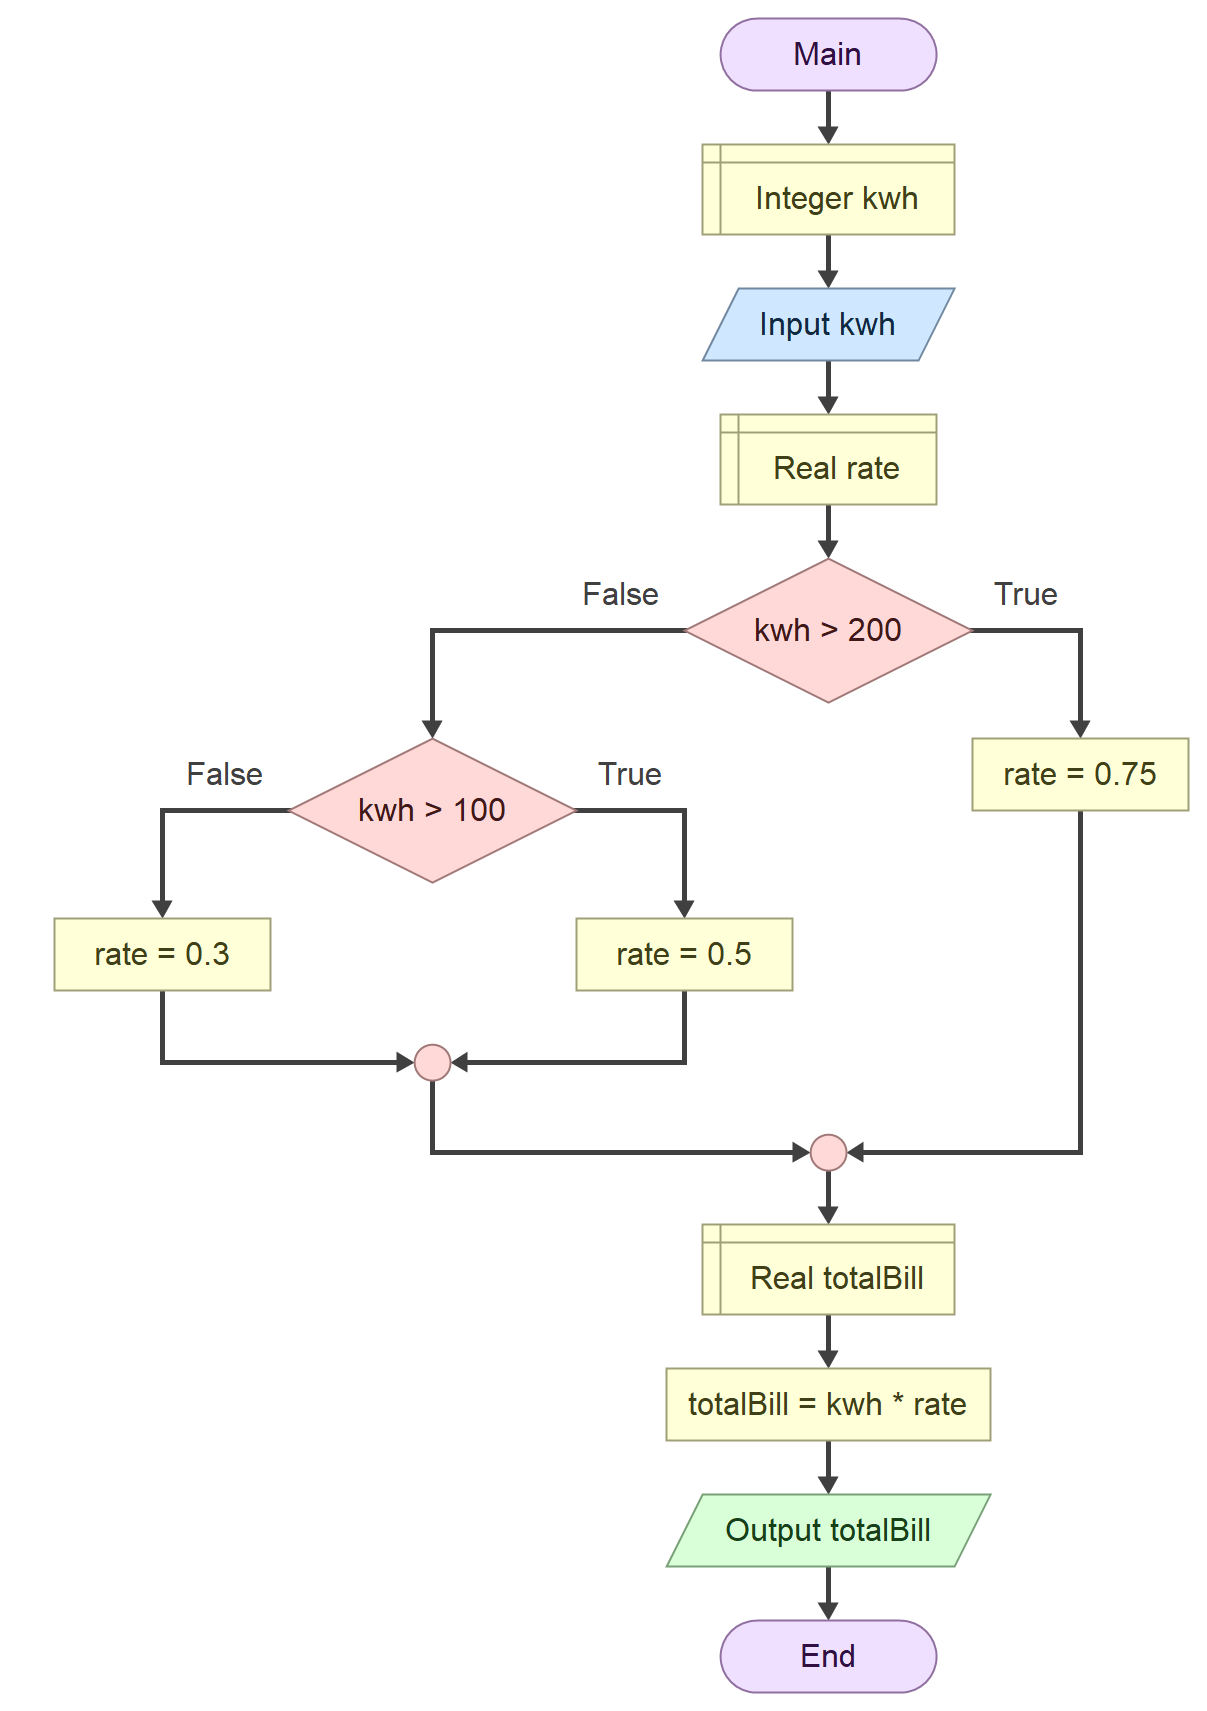
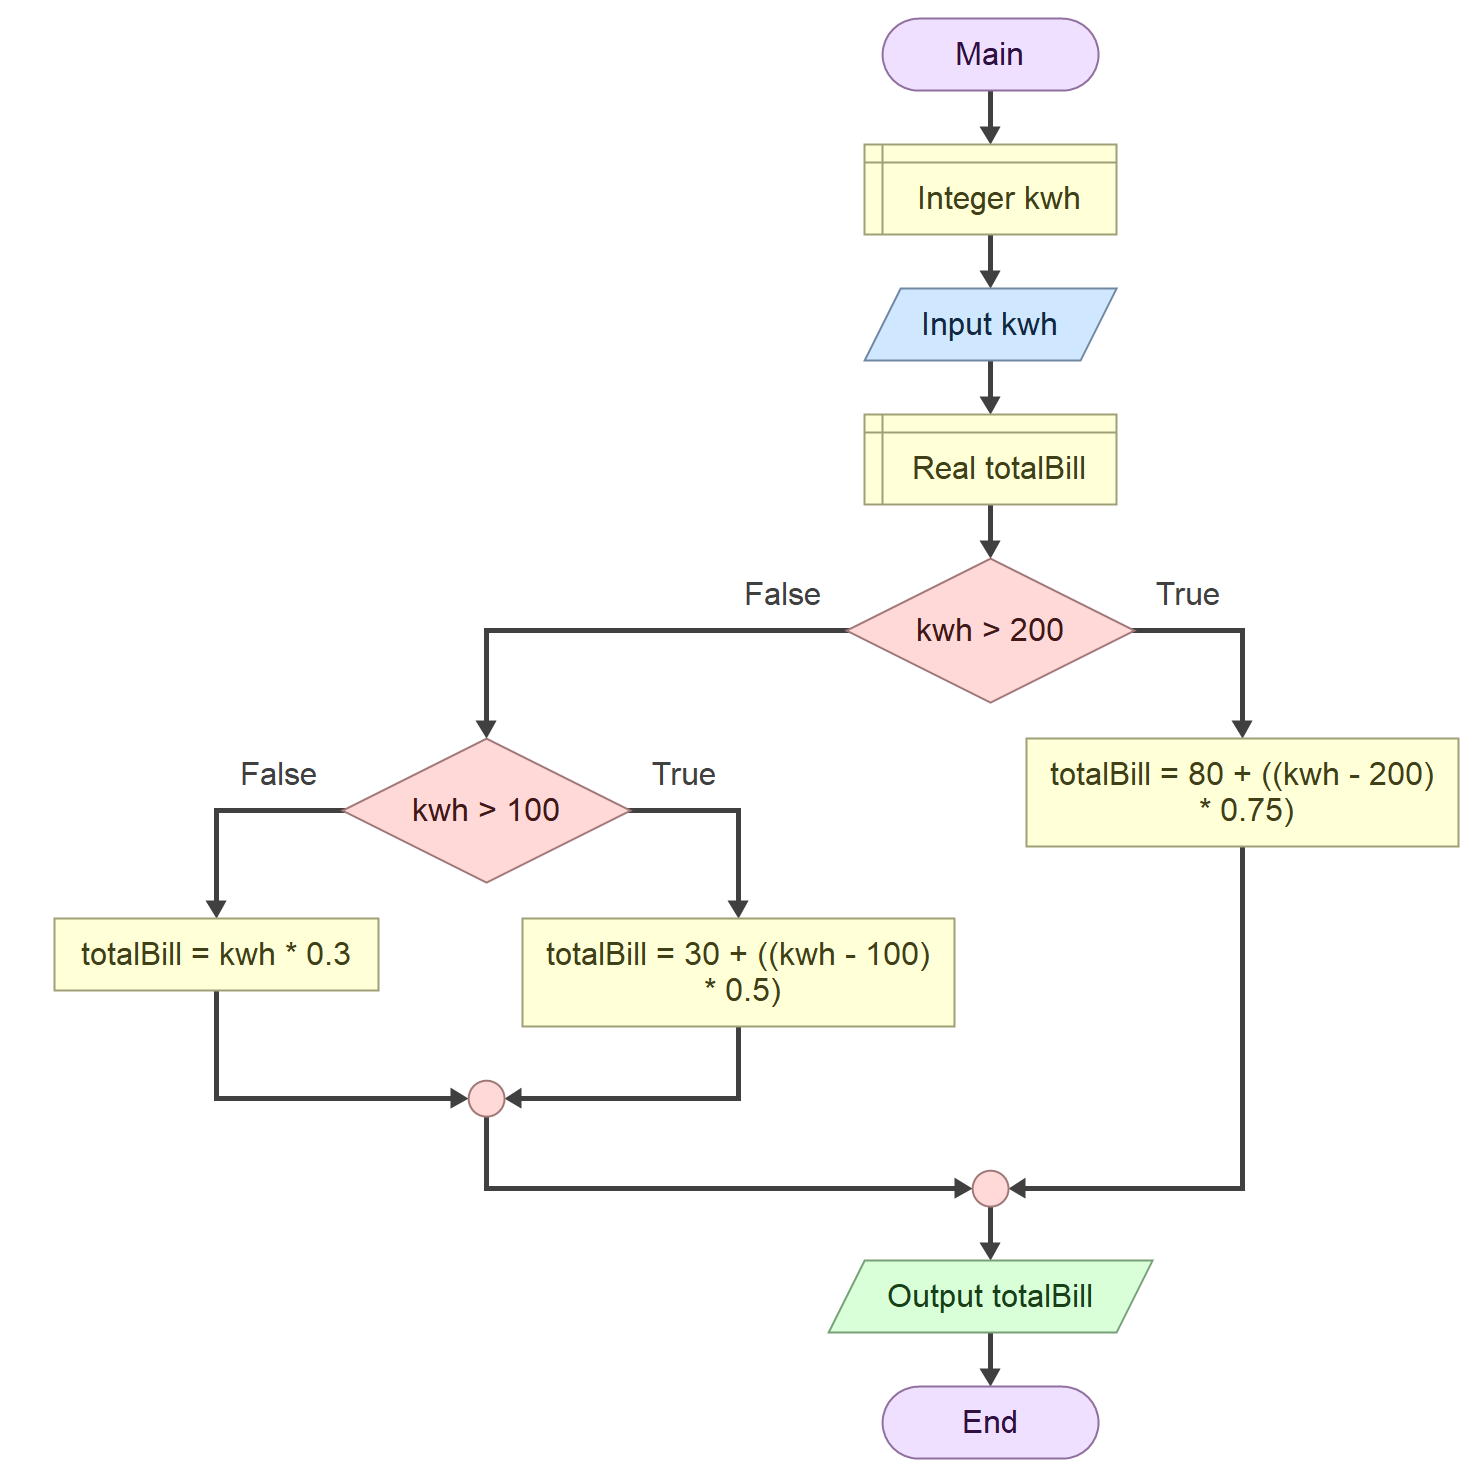
Test exercise 1

Changed region(s): [[0.0307, 0.0, 1.0, 0.9966]]

diff --git a/labs/lab04/exercise1/lab-4-1.py b/labs/lab04/exercise1/lab-4-1.py
@@ -1,10 +1,9 @@
 kwh = int(input())
 if kwh > 200:
-    rate = 0.75
+    totalBill = 80 + ((kwh - 200) * 0.75)
 else:
     if kwh > 100:
-        rate = 0.5
+        totalBill = 30 + ((kwh - 100) * 0.5)
     else:
-        rate = 0.3
-totalBill = kwh * rate
+        totalBill = kwh * 0.3
 print(totalBill)